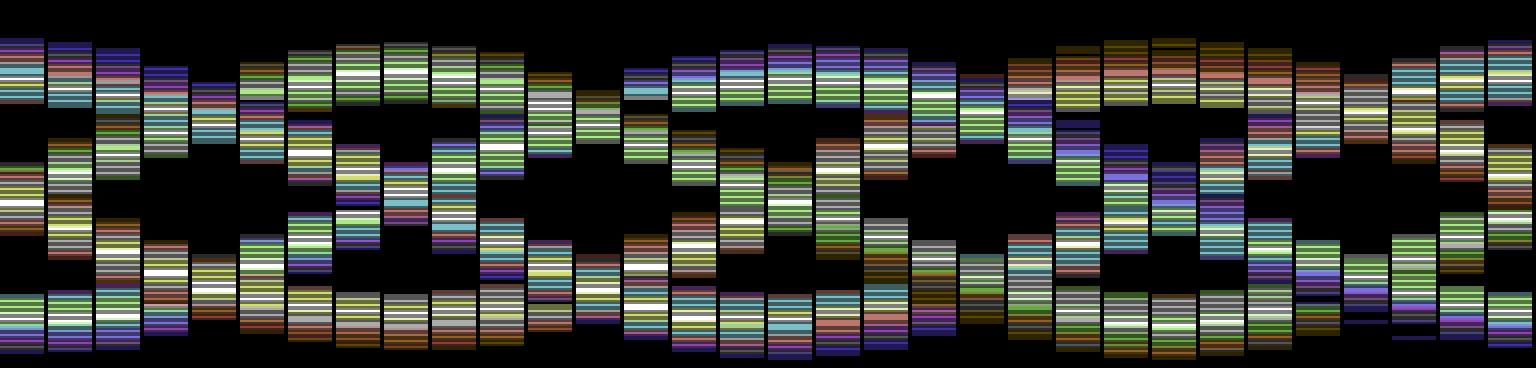
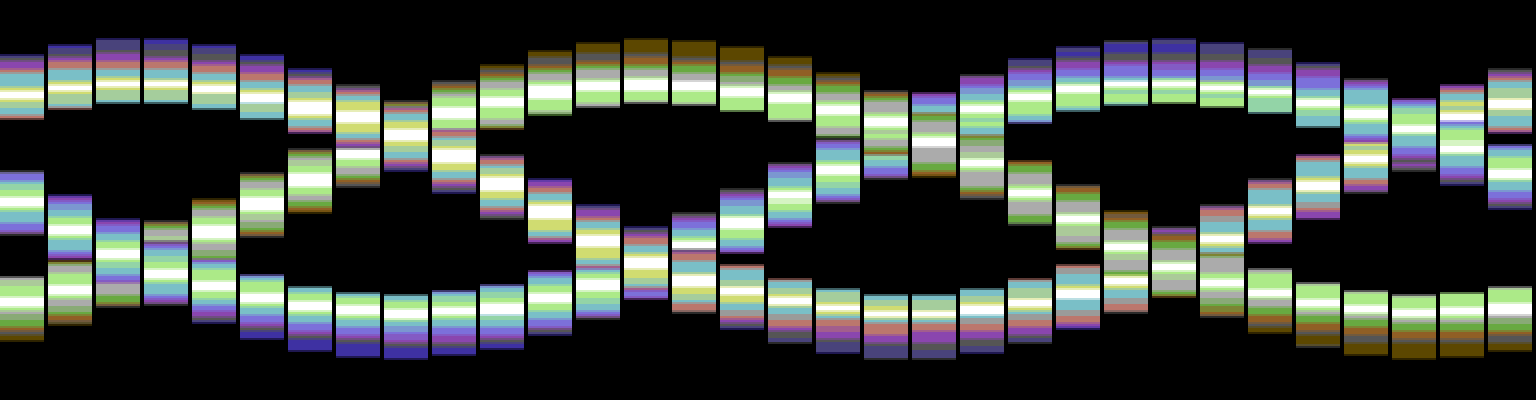
RAYBARS: three article palettes, dithering only on colour boundaries
Use the ocean, forest and dusk multichrome gradients (white removed,
no black start). STYLE=0, now the default, gives each colour two solid
shading levels and dithers only the level at each boundary; diffuse
widens to 0..14 and specular to 0..8 to fit. STYLE=1 keeps the black
split. Back to three bars and the full 200-line display (~73% vblank).

Claude-Session: https://claude.ai/code/session_01XRP7YWTXV6rxeodyPouCbG

diff --git a/c64-raybars/gen_tables.py b/c64-raybars/gen_tables.py
@@ -63,10 +63,10 @@ def doubled(f):
     t = [ubyte(f(a)) for a in range(256)]
     return t + t
 
-# diffuse: 0..10 (one per step of the stretched ramps, see RAMPS)
-tables["difftab"] = doubled(lambda a: 10 * max(0.0, math.cos(rad(a))))
-# specular, Phong exponent 24: 0..6
-tables["spectab"] = doubled(lambda a: 6 * max(0.0, math.cos(rad(a))) ** 24)
+# diffuse: 0..14 (one per step of the stretched ramps, see RAMPS)
+tables["difftab"] = doubled(lambda a: 14 * max(0.0, math.cos(rad(a))))
+# specular, Phong exponent 24: 0..8
+tables["spectab"] = doubled(lambda a: 8 * max(0.0, math.cos(rad(a))) ** 24)
 
 # environment map, 1-D: indexed by the angle of the reflected view ray.
 # A chrome-style horizon: sky (up, -y) = 2, a horizon band = 1, ground = 0.
@@ -101,45 +101,47 @@ with open(os.path.join(here, "tables.inc"), "w") as f:
 # Ramps from "Stretching the c64 Palette" (Daniel Krajzewicz,
 # krajzewicz.de/blog/stretching-the-c64-palette.php): "multichrome"
 # gradients that take ONE colour from each of the VIC-II's brightness
-# levels, whatever its hue, so a gradient gets every brightness step the
-# chip has instead of the 3-4 a single hue offers.  The article's white
-# end is dropped here (white is reserved for the specular highlight).
+# levels, whatever its hue.  The article's white end is dropped here:
+# white is reserved for the specular highlight.
 #
-# Between each pair of neighbours there is a MIXED step, as in the
-# article: the two colours on alternating scanlines, which a PAL TV
-# blends.  7 colours -> 13 steps.
+# STYLE 0, "Poor Man's Dithering" on the colour boundaries only: every
+# colour gets two solid shading levels, then one level where it and the
+# next colour alternate on even/odd scanlines (a PAL TV blends them).
+# So most of each colour band is solid and only the boundaries dither.
 #
-# Intensity = diffuse (0..10) + env (0..2) + specular (0..6) = 0..18
-#   0..12  the bar's own colours, alternating with the in-between mixes
-#   13     highlight fringe: brightest bar colour mixed with white
-#   14+    specular core: white
-# Diffuse + env tops out at 12, so only the specular term reaches white.
+# Intensity = diffuse (0..14) + env (0..2) + specular (0..8) = 0..24
+#   0..16  the bar's colours: solid, solid, boundary mix, solid, ...
+#   17     highlight fringe: brightest bar colour mixed with white
+#   18+    specular core: white
+# Diffuse + env tops out at 16, so only the specular term reaches white.
 WHITE = 1
 RAMPS = [                        # the article's multichrome gradients
-    ("fire",   [0, 9, 2, 8, 10, 15, 7]),  # blk brown red orange l.red l.grey yellow
-    ("ocean",  [0, 6, 11, 4, 14, 3, 13]), # blk blue d.grey purple l.blue cyan l.green
-    ("forest", [0, 9, 11, 8, 5, 15, 13]), # blk brown d.grey orange green l.grey l.green
-    ("dusk",   [0, 6, 11, 4, 10, 3, 7]),  # blk blue d.grey purple l.red cyan yellow
+    ("ocean",  [6, 11, 4, 14, 3, 13]),  # blue d.grey purple l.blue cyan l.green
+    ("forest", [9, 11, 8, 5, 15, 13]),  # brown d.grey orange green l.grey l.green
+    ("dusk",   [6, 11, 4, 10, 3, 7]),   # blue d.grey purple l.red cyan yellow
 ]
 RAMPLEN = 32
+NSTEPS = 3 * len(RAMPS[0][1]) - 1     # 17: levels 0..16
 
 def stretch(base):
-    """7 pure colours -> 32 (even, odd) pairs."""
+    """6 colours -> 32 (even, odd) pairs, dithered only at the boundaries."""
     steps = []
-    for i, c in enumerate(base):
-        steps.append((c, c))
-        if i + 1 < len(base):
-            steps.append((c, base[i + 1]))       # the in-between mix
-    steps.append((base[-1], WHITE))              # highlight fringe
+    for lvl in range(NSTEPS):
+        i, r = divmod(lvl, 3)
+        if r < 2:
+            steps.append((base[i], base[i]))          # solid
+        else:
+            steps.append((base[i], base[i + 1]))      # boundary mix
+    steps.append((base[-1], WHITE))                   # highlight fringe
     steps += [(WHITE, WHITE)] * (RAMPLEN - len(steps))
     return steps
 
 def split(base):
-    """STYLE 1, the article's "scaled split": no mixes, so the 13 steps
-    snap to the 7 pure colours; the black lines are drawn by raybars.s.
+    """STYLE 1, the article's "scaled split": no mixes (a boundary level
+    snaps to the brighter colour); the black lines are drawn by raybars.s.
     Same 64-byte slot per bar as the dithered ramps (the 2nd half unused)."""
-    steps = [base[(i + 1) // 2] for i in range(13)]  # 0..12
-    steps.append(base[-1])                               # 13: no fringe mix
+    steps = [base[(lvl + 1) // 3] for lvl in range(NSTEPS)]
+    steps.append(base[-1])                            # no fringe mix
     steps += [WHITE] * (2 * RAMPLEN - len(steps))
     return steps
 

diff --git a/c64-raybars/simulate.py b/c64-raybars/simulate.py
@@ -14,7 +14,7 @@ from PIL import Image
 
 HERE = os.path.dirname(os.path.abspath(__file__))
 FRAMES = 256
-NLINES = 184
+NLINES = 200
 FIRSTLINE = 50
 # Budget: update starts after the colour loop (~line 252) and must be done
 # before irq1 at line FIRSTLINE of the next frame.  Keep some slack for

diff --git a/c64-raybars/README.md b/c64-raybars/README.md
@@ -1,6 +1,6 @@
 # RAYBARS: ray-traced raster bars for the C64
 
-Four chrome cylinders orbit the screen's X axis. Each one is shaded every
+Three chrome cylinders orbit the screen's X axis. Each one is shaded every
 frame with a diffuse term, a 1-D environment map and a Phong specular
 highlight from a single point light. The CPU only has to write one
 register per scanline, so almost all of its time goes to the shading maths.
@@ -11,7 +11,7 @@ register per scanline, so almost all of its time goes to the shading maths.
 
 ```sh
 python3 gen_tables.py                                   # optional: tables.inc and ramps.inc are committed
-cl65 -t none -C raybars.cfg -o raybars.prg raybars.s   # add --asm-define STYLE=0 for the dithered look
+cl65 -t none -C raybars.cfg -o raybars.prg raybars.s   # add --asm-define STYLE=1 for the black-split look
 x64sc raybars.prg                                        # VICE, PAL machine
 ```
 
@@ -50,35 +50,34 @@ uses VICE's default palette, the one the article uses.
    [Stretching the c64 Palette](https://www.krajzewicz.de/blog/stretching-the-c64-palette.php).
    * **Multichrome ramps.** Each ramp takes one colour from each of the
      VIC-II's brightness levels, whatever its hue, so it gets every
-     brightness step the chip has. These are the article's four
-     multichrome gradients, with their white end dropped:
-     * Fire: black, brown, red, orange, light red, light grey, yellow
-     * Ocean: black, blue, dark grey, purple, light blue, cyan, light green
-     * Forest: black, brown, dark grey, orange, green, light grey, light green
-     * Dusk: black, blue, dark grey, purple, light red, cyan, yellow
-   * **`STYLE=1` (default), the article's "scaled split".** Two lines of
-     colour, then one black line, counted outwards from each bar's centre.
-     The black lines belong to the bar, so they also cover the bars
-     behind it.
-   * **`STYLE=0`, the article's "Poor Man's Dithering" at scale 2.**
-     Between neighbouring colours there is a mixed step: the two colours on
-     alternating scanlines, which a PAL TV blends, so 7 colours give 13
-     steps. The shading loop is unrolled by two, so even and odd lines read
-     their own ramp table. `FLICKER=1` also swaps each pair every frame,
-     which looks smoother on a sharp LCD or emulator but flickers.
+     brightness step the chip has. These are three of the article's
+     gradients, with their white end dropped:
+     * Ocean: blue, dark grey, purple, light blue, cyan, light green
+     * Forest: brown, dark grey, orange, green, light grey, light green
+     * Dusk: blue, dark grey, purple, light red, cyan, yellow
+   * **`STYLE=0` (default): dithering on the colour boundaries only.**
+     Each colour gets two solid shading levels, then one level where it and
+     the next colour alternate on even and odd scanlines (the article's
+     "Poor Man's Dithering"), which a PAL TV blends. Most of each band is
+     solid colour. The shading loop is unrolled by two, so even and odd
+     lines read their own ramp table. `FLICKER=1` also swaps each pair
+     every frame, which looks smoother on a sharp LCD or emulator but
+     flickers.
+   * **`STYLE=1`: the article's "scaled split".** Two lines of colour,
+     then one black line, counted outwards from each bar's centre. The
+     black lines belong to the bar, so they also cover the bars behind it.
    * **Correct widths.** The article notes that hand-made patterns never
      give each brightness its correct width. Here the widths come from the
      cosine shading, so the bars actually look round.
-   * **Intensity** is diffuse (0..10) + env (0..2) + specular (0..6).
-     Diffuse plus env tops out at 12, the brightest bar colour, so only the
+   * **Intensity** is diffuse (0..14) + env (0..2) + specular (0..8).
+     Diffuse plus env tops out at 16, the brightest bar colour, so only the
      specular term reaches **white**.
-8. **Bars are drawn back to front.** A 4-element sorting network orders them
+8. **Bars are drawn back to front.** A 3-element sorting network orders them
    by depth, and the painter's algorithm handles the crossings.
 9. **The screen is blanked (DEN=0).** With the display off there are no
    badlines, so after a double-IRQ stable raster the display is a plain
-   63-cycle loop writing `$d020`, and the whole screen is border. The display
-   is 184 lines tall. The tracer uses about 6,800 of the roughly 7,800
-   vblank cycles (87%).
+   63-cycle loop writing `$d020`, and the whole screen is border. The tracer
+   uses about 5,000 of the roughly 6,800 vblank cycles (73%).
 
 ## Tuning notes
 
